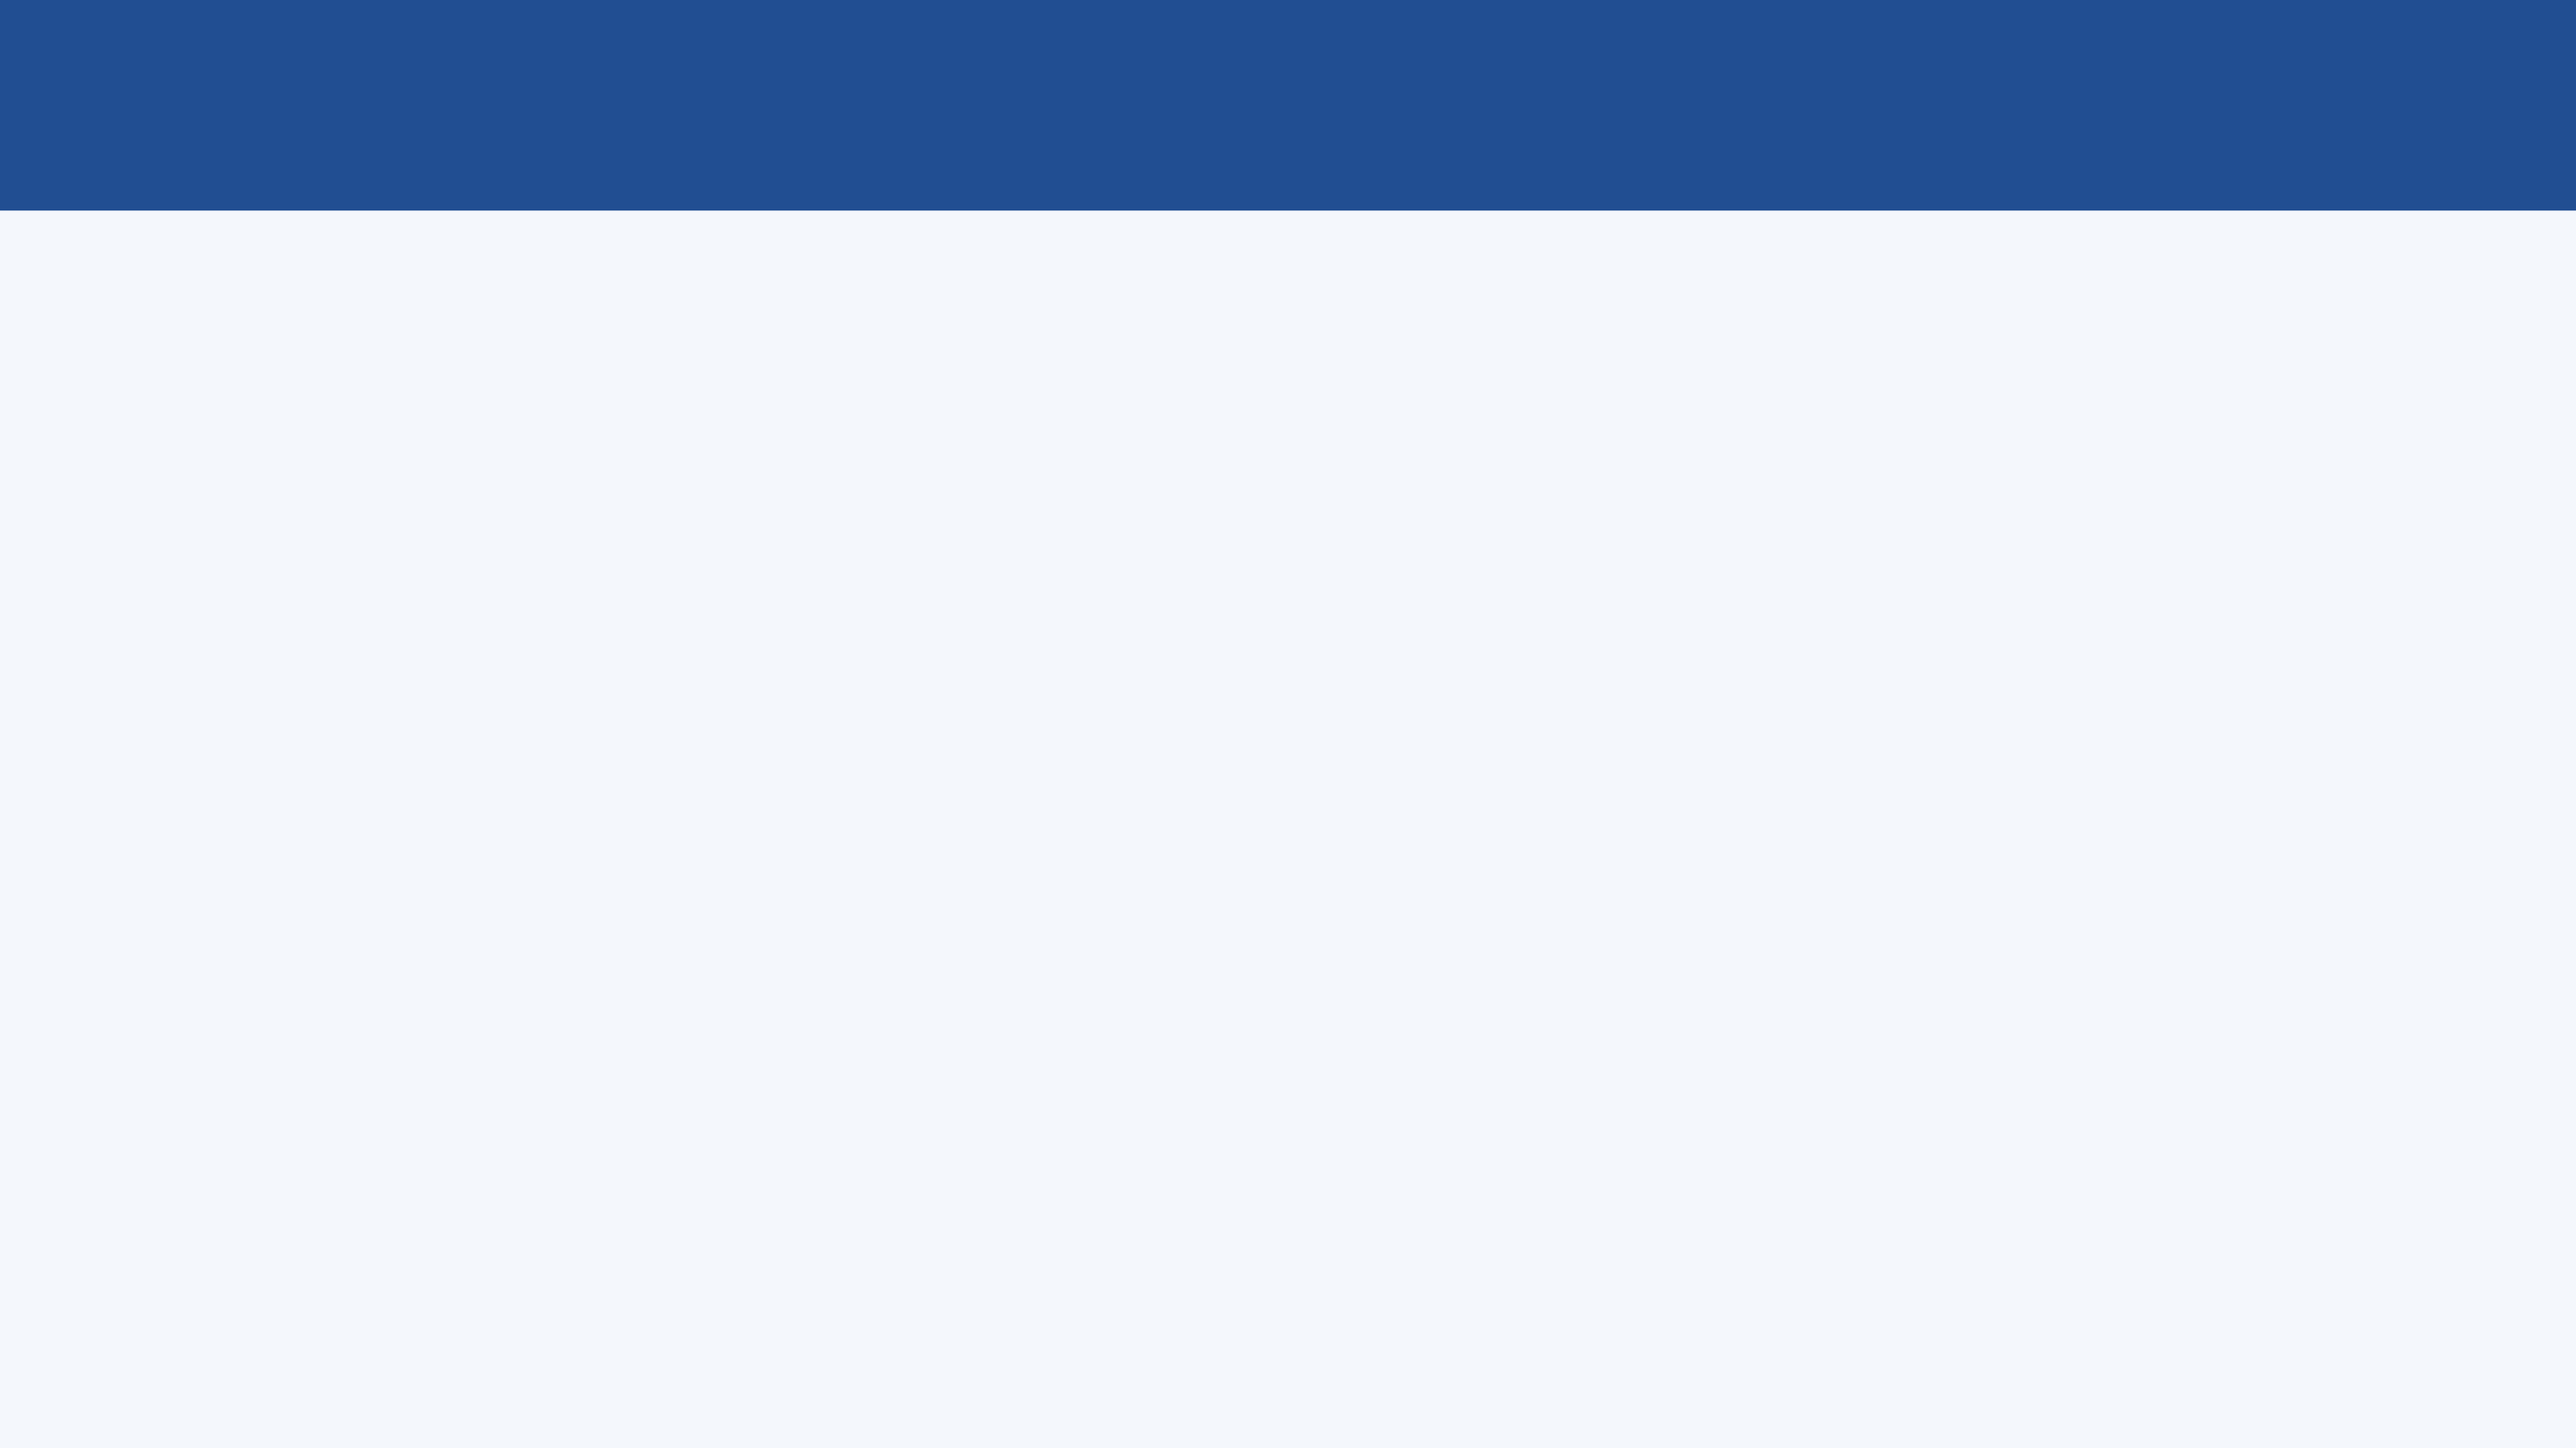
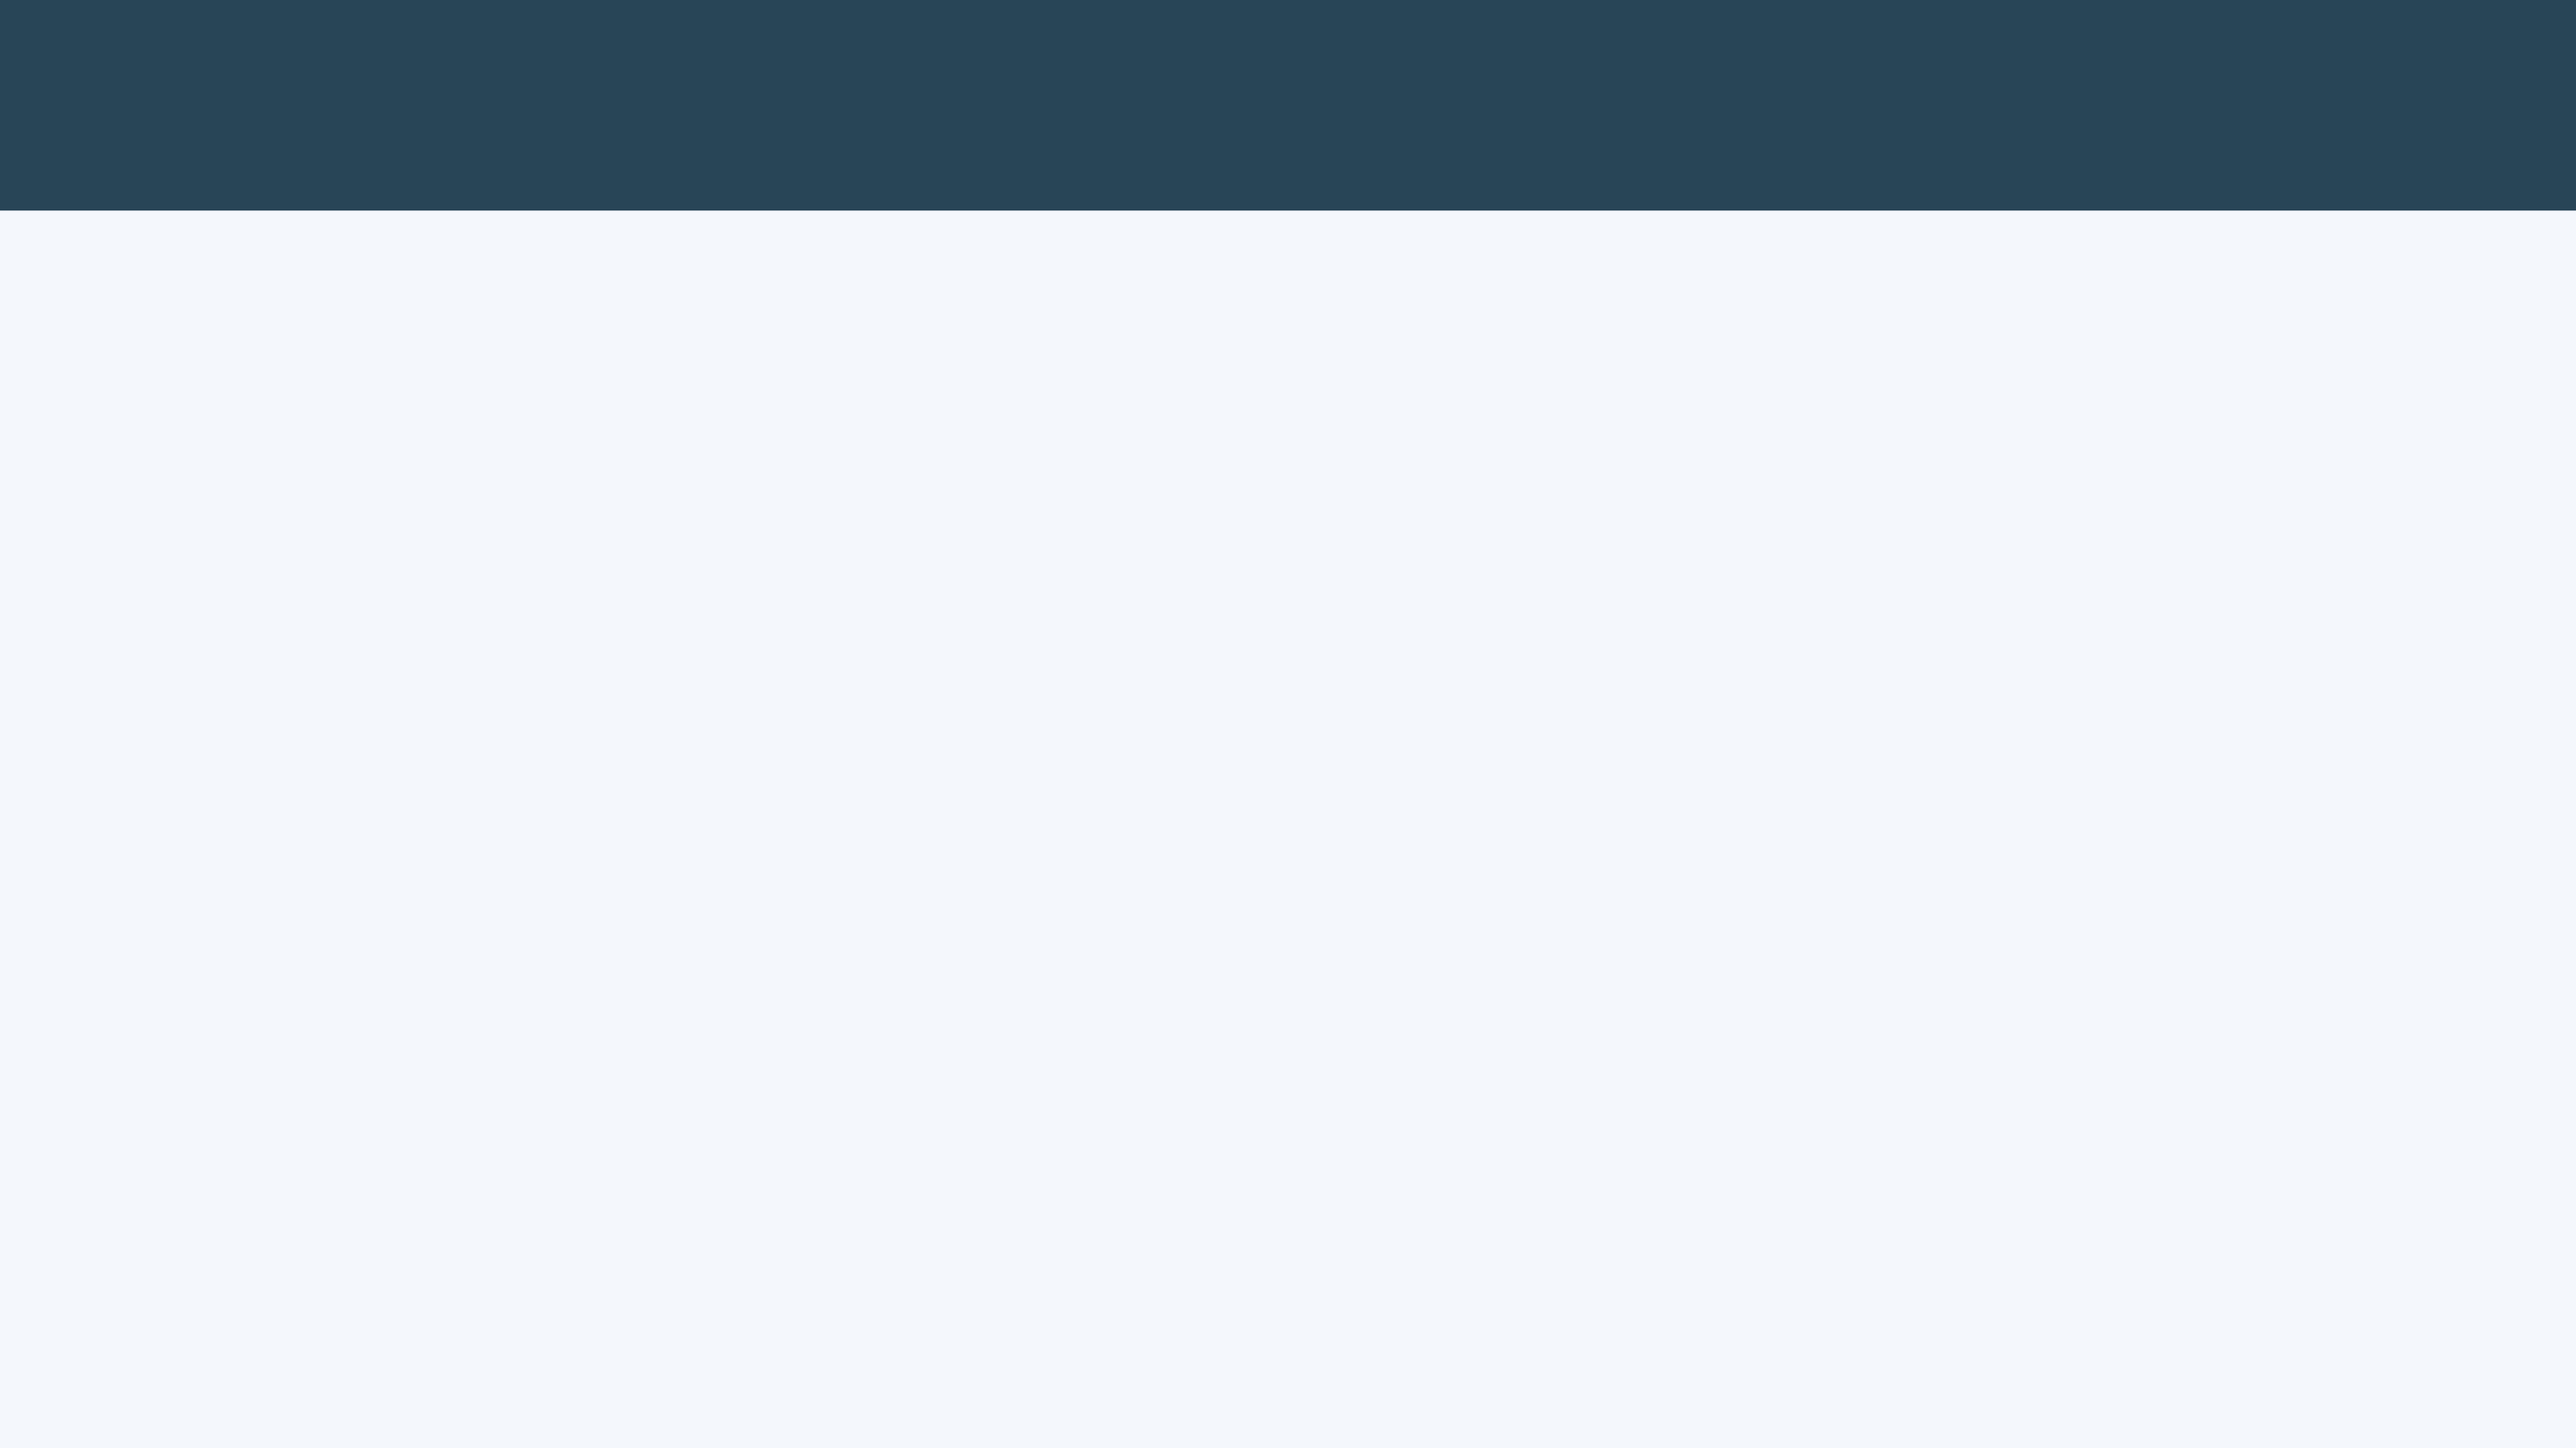
Nova cor

Changed region(s): [[0.0, 0.0, 1.0, 0.1562]]

diff --git a/src/styles/Header.css b/src/styles/Header.css
@@ -1,5 +1,5 @@
 header {
-  background-color: #214e92;
+  background-color: #284557;
   color: white;
   padding: 0;
   position: fixed;
@@ -12,7 +12,7 @@ header {
 }
 
 .cabecalho2 {
-  background-color: #214e92;
+  background-color: #284557;
   position: fixed;
   width: 35%;
   top: 0;

diff --git a/src/styles/Sidebar.css b/src/styles/Sidebar.css
@@ -56,7 +56,7 @@ main.mover.zoom {
 }
 
 .cabecalho-menu-lateral {
-  background-color: #214e92;
+  background-color: #284557;
   height: 60px;
   display: flex;
   align-items: center;

diff --git a/src/styles/Main.css b/src/styles/Main.css
@@ -1,5 +1,5 @@
 .header-section {
-  background-color: #214e92;
+  background-color: #284557;
   padding: 20px 50px;
   color: white;
   display: flex;
